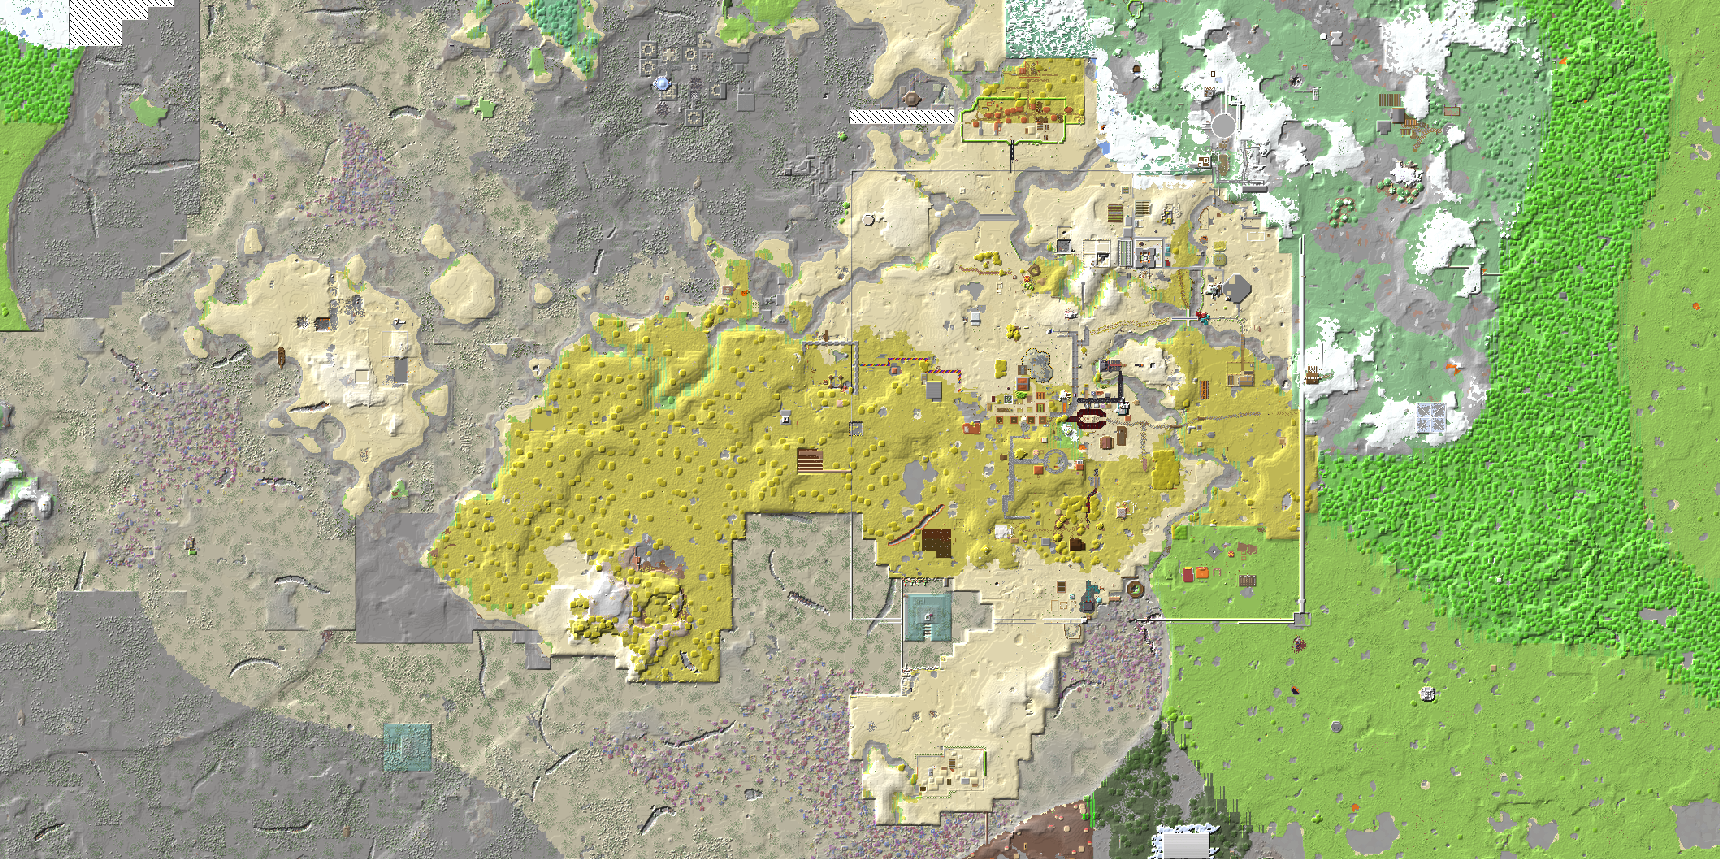
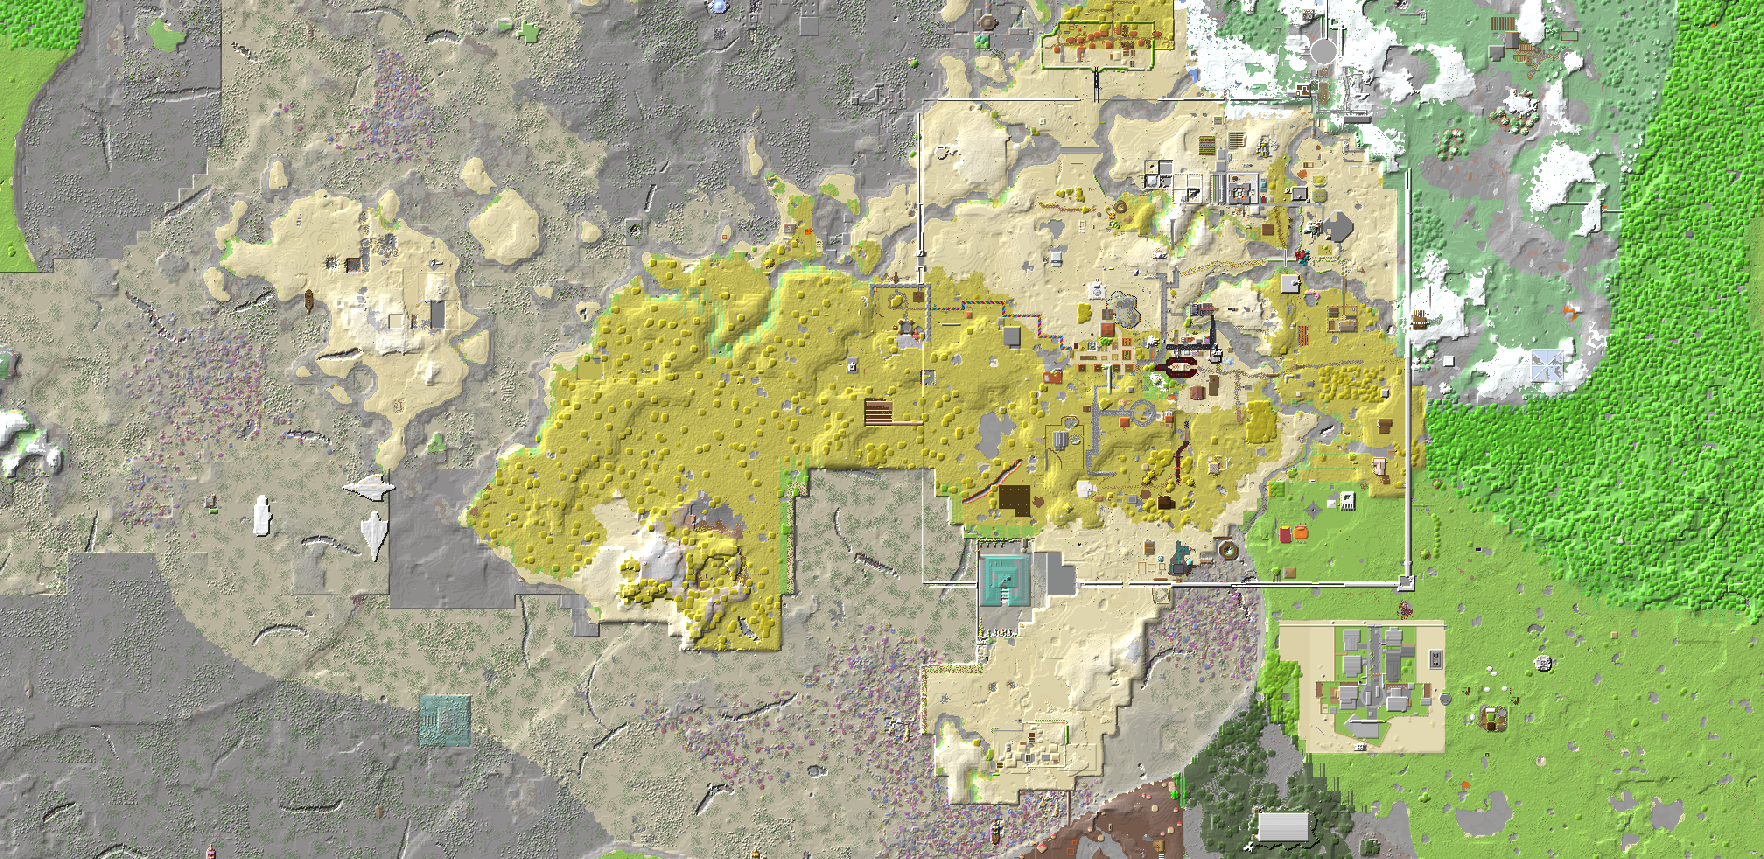
new update for 1.17

diff --git a/smpbot.py b/smpbot.py
@@ -14,55 +14,55 @@ with open('token.txt') as tk:
 async def on_ready():
 	print("Powered Up")
 
-@client.command()
-async def testmapcommand(ctx):
-        role = discord.utils.get(ctx.guild.roles, id = 749325604930977813)
-        if role in ctx.author.roles:
-                """pg.moveTo(screenWidth/2, screenHeight/2, duration = 1)
-                await ctx.send("Moved Mouse!")"""
-                r"""subprocess.call(['java', '-jar', r'C:\Users\noi01\Documents\mcaselector-1.12.3.jar'])"""
-                pg.hotkey('win')
-                pg.typewrite('mcaselector-1.13.3.jar', 0.03)
-                time.sleep(0.5)
-                pg.press('enter')
-                await ctx.send(r"Opened C:\Users\noi01\Documents\mcaselector-1.13.3.jar")
-                pg.keyDown('enter')
-                time.sleep(1)
-                pg.keyDown('ctrl')
-                pg.press('o')
-                pg.keyUp('ctrl')
-                await ctx.send("Pressed Ctrl + O")
-                pg.hotkey('alt','d')
-                pg.typewrite(r'C:\Users\noi01\Documents\Server migration\world\region',0.03)
-                await ctx.send("Typed in Address Bar")
-                pg.hotkey('enter')
-                pg.PAUSE = 0.4
-                pg.hotkey('tab')
-                pg.hotkey('tab')
-                pg.hotkey('tab')
-                pg.hotkey('tab')
-                pg.hotkey('tab')
-                pg.hotkey('tab')
-                pg.hotkey('tab')
-                pg.PAUSE = 0.5
-                await ctx.send("Tabbed 7 Times")
-                pg.hotkey('enter')
-                pg.hotkey('ctrl','shift','k')     
-                await ctx.send("Selected World Folder and Cleared Cache")
-                time.sleep(2)
-                pg.hotkey('win','up')
-                pg.hotkey('ctrl','g')
-                pg.write('-482')
-                pg.hotkey('tab')
-                pg.write('98')
-                pg.hotkey('enter')
-                await ctx.send("Fullscreened and grabbed world coords for screenshot from MCA visualization")
-                await ctx.send("Say :cheese:!")
-                time.sleep(3)
-                im = pg.screenshot('MCA.png', region=(16,54, 1850, 969))
-                await ctx.send(":camera: Screenshot taken")
-        else:
-                await ctx.send("You don't have permissions for this command!")
+# @client.command()
+# async def testmapcommand(ctx):
+#         role = discord.utils.get(ctx.guild.roles, id = 749325604930977813)
+#         if role in ctx.author.roles:
+#                 """pg.moveTo(screenWidth/2, screenHeight/2,      duration = 1)
+#                 await ctx.send("Moved Mouse!")"""
+#                 r"""subprocess.call(['java', '-jar', r'C:\Users\noi01\Documents\mcaselector-1.12.3.jar'])"""
+#                 pg.hotkey('win')
+#                 pg.typewrite('mcaselector-1.13.3.jar', 0.03)
+#                 time.sleep(0.5)
+#                 pg.press('enter')
+#                 await ctx.send(r"Opened C:\Users\noi01\Documents\mcaselector-1.13.3.jar")
+#                 pg.keyDown('enter')
+#                 time.sleep(1)
+#                 pg.keyDown('ctrl')
+#                 pg.press('o')
+#                 pg.keyUp('ctrl')
+#                 await ctx.send("Pressed Ctrl + O")
+#                 pg.hotkey('alt','d')
+#                 pg.typewrite(r'C:\Users\noi01\Documents\Minecraft Tools\Server migration\world\region',0.03)
+#                 await ctx.send("Typed in Address Bar")
+#                 pg.hotkey('enter')
+#                 pg.PAUSE = 0.4
+#                 pg.hotkey('tab')
+#                 pg.hotkey('tab')
+#                 pg.hotkey('tab')
+#                 pg.hotkey('tab')
+#                 pg.hotkey('tab')
+#                 pg.hotkey('tab')
+#                 pg.hotkey('tab')
+#                 pg.PAUSE = 0.5
+#                 await ctx.send("Tabbed 7 Times")
+#                 pg.hotkey('enter')
+#                 pg.hotkey('ctrl','shift','k')     
+#                 await ctx.send("Selected World Folder and Cleared Cache")
+#                 time.sleep(2)
+#                 pg.hotkey('win','up')
+#                 pg.hotkey('ctrl','g')
+#                 pg.write('-482')
+#                 pg.hotkey('tab')
+#                 pg.write('98')
+#                 pg.hotkey('enter')
+#                 await ctx.send("Fullscreened and grabbed world coords for screenshot from MCA visualization")
+#                 await ctx.send("Say :cheese:!")
+#                 time.sleep(3)
+#                 im = pg.screenshot('MCA.png', region=(16,54, 1850, 969))
+#                 await ctx.send(":camera: Screenshot taken")
+#         else:
+#                 await ctx.send("You don't have permissions for this command!")
         
 @client.command()
 async def hello(ctx):
@@ -78,61 +78,47 @@ async def map(ctx):
                 pg.hotkey('win')
                 pg.typewrite('mcaselector', 0.1)
                 pg.press('enter')
-##                await ctx.send(r"Opened C:\Users\noi01\Documents\mcaselector-1.13.3.jar")
                 time.sleep(1)
                 pg.keyDown('ctrl')
                 pg.press('o')
                 pg.keyUp('ctrl')
-##                await ctx.send("Pressed Ctrl + O")
                 pg.hotkey('alt','d')
-                pg.typewrite(r'C:\Users\noi01\Documents\Server migration\world\region',0.03)
-##                await ctx.send("Typed in Address Bar")
+                pg.typewrite(r'C:\Users\derex\Documents\Server migration\ul_world_new',0.03)
                 pg.hotkey('enter')
                 pg.PAUSE = 0.4
-                pg.hotkey('tab')
-                pg.hotkey('tab')
-                pg.hotkey('tab')
-                pg.hotkey('tab')
-                pg.hotkey('tab')
-                pg.hotkey('tab')
-                pg.hotkey('tab')
-                pg.hotkey('tab')
+                x, y = pg.locateCenterOnScreen('selectfolder.png')
+                pg.click(x, y)
                 pg.PAUSE = 0.5
-##                await ctx.send("Tabbed 7 Times")
-                pg.hotkey('enter')
                 pg.hotkey('ctrl','shift','k')     
-##                await ctx.send("Selected World Folder and Cleared Cache")
                 time.sleep(2)
                 pg.hotkey('win','up')
                 pg.hotkey('ctrl','g')
-                pg.write('-472')
+                pg.write('-127')
                 pg.hotkey('tab')
-                pg.write('100')
+                pg.write('84')
+                pg.hotkey('tab')
+                pg.hotkey('enter')
+                pg.scroll(-2)
                 pg.hotkey('enter')
                 pg.hotkey('ctrl','t')
-##                await ctx.send("Fullscreened and grabbed world coords for screenshot from MCA visualization")
-##                await ctx.send("Say :cheese:!")
+                pg.hotkey('ctrl','r')
                 time.sleep(3)
                 im = pg.screenshot('MCA.png', region=(16,54, 1850, 969))
-##                await ctx.send(":camera: Screenshot taken")
                 pg.hotkey('alt','f4')
-                time.sleep(1)
-                pg.hotkey('win')
-                pg.typewrite('chunky\n', 0.03)
                 time.sleep(1)
         else:
                 await ctx.send("You don't have permissions for this command!")
         mcafile = discord.File("mca.png")
         ulworldfile = discord.File("ul_world.png")
         embed=discord.Embed(title="The Community", color=0xffae00)
-        embed.set_image(url="attachment://ul_world.png")
+     #   embed.set_image(url="attachment://ul_world.png")
         """embed.set_thumbnail(url="https://i.imgur.com/Hga1pAM.png")
         embed.set_image(url="http://dl.dropboxusercontent.com/s/2ezj4vckv2dzgak/ul_world.png?dl=0")"""
         mcamap=discord.Embed(title="MCA Map", color=0xffae00)
         mcamap.set_image(url="attachment://mca.png")
         """mcamap.set_image(url="http://dl.dropboxusercontent.com/s/mlzx10v8da0i0lk/mcamap.png?dl=0")"""
         await ctx.message.delete()
-        await ctx.send(file = ulworldfile, embed=embed)
+     #   await ctx.send(file = ulworldfile, embed=embed)
         await ctx.send(file = mcafile, embed = mcamap)
 
 """@client.event
